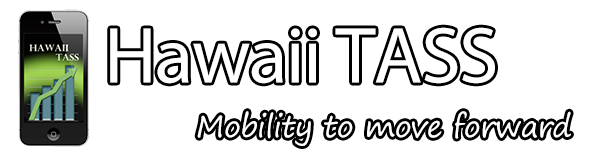
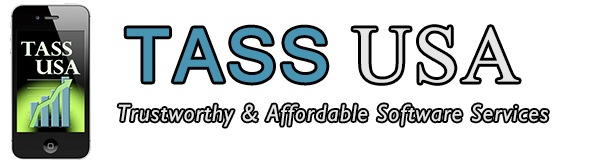
updated the user profiles.

diff --git a/_includes/header.html b/_includes/header.html
@@ -34,7 +34,7 @@
 		<div class="row">
 			<div id="logo" class="site-branding col-xs-12 col-sm-10 col-sm-offset-1 col-md-8 col-md-offset-2">
 				<div id="site-logo-big"><!-- class="hidden-xs" -->
-					<img class="img-responsive" src="{{ "/assets/images/header-2.0.png" | prepend: site.baseurl }}" alt="{{ site.title }}" />
+					<img class="img-responsive" src="{{ "/assets/images/header.png" | prepend: site.baseurl }}" alt="{{ site.title }} - {{ site.slogan }}" />
 				</div>
 				<!-- <div id="site-logo-small" class="visible-xs">
 					<img class="img-responsive" src="{{ "/assets/images/TASS-cellphone-small.png" | prepend: site.baseurl }}" alt="Home" />

diff --git a/_sass/_extra.scss b/_sass/_extra.scss
@@ -1386,7 +1386,7 @@ q > cite:before{
 }
 
 #site-logo-big {
-  padding-top: 100px;
+  padding-top: 175px;
 }
 
 #site-logo-small {

diff --git a/_members/salahuddin.md b/_members/salahuddin.md
@@ -3,7 +3,34 @@ layout: member
 sort: 3
 real_name: "Salahuddin Aziz"
 job_title: "Senior Data Mining Analyst"
-email: "Aziz@HawaiiTASS.com"
+email: "Aziz@TASSUSA.com"
 picture: "picture-1537-1412910726.jpg"
 ---
-This is the profile for Salahuddin Aziz.
+#### Background
+Mr. Salahuddin works as a Senior Java Developer at Dell Inc. He works part-time for the TASS USA company as the Senior Data Mining Analyst. Mr. Aziz physically works from Texas. He is also a Ph.D. candidate in the Computer Science Department at the Wayne State University, MI. His Ph.D. focus is in Data Mining.
+
+#### Education:
+- Ph.D. Candidate, Computer Science (Data Mining), Wayne State University, MI
+- MS in Computer Science, Wayne State University, MI
+- BS in Computer Science, Bangladesh University of Engineering Technology
+
+#### Software Development Focus:
+- Proficiency in **Java, JSP, JMS, EJB(Session Bean, MDB, JPA), JAXB, Frameworks (Struts, Spring, Hibernate)** in implementing **JavaEE** technology.
+- Specially proficient in creating and consuming Restful Webservices with json input/output using wink api's.
+- Used **Apache Tomcat, WebLogic, JBOSS, WebSphere** in my projects and successfully deployed and compiled many of the applications on them.
+- Experience in developing Front-End using **Struts, Spring, JSP, JSF, JavaScript, HTML, DHTML and CSS**.
+- Good knowledge and experience in **SDLC**, especially in **agile** methodology(**extreme** programming). Worked in **test driven development** using **SCRUM** methodology with the help of “**Agilo**” tool.
+- Experience in unit testing using **Junit** and **Qunit**(for javascript).
+- Experience in object oriented analysis and design using **Rational Rose** and **UML Lab**. Hands on experience in preparing **use case, class diagram** and **sequence diagrams** to model a system.
+- Experience in Design Patterns including **Model View Controller, Session Façade, Factory, Data Access Objects, Composite View, Singleton, Filter, Decorator** Pattern.
+- Extensive experience on **Eclipse** and **NetBeans IDE’s**.
+- In-depth knowledge of XML technologies **XML, XSL, XSLT, XSL-FO, XPath, DOM** & **SAX** Parsers.
+- Good exposure to both creating and publishing Web Services as well as consuming it. In depth knowledge in **SOAP, WSDL, UDDI**.
+- Knowledge in **cloud computing** through the use of **Apache Hadoop** for **distributed computing** to implement and compare the performance of data mining algorithms.
+- Used **Hibernate** for Object Relational Mapping.
+- Practical knowledge on using **Apache Mahout** for implementing large scale data mining algorithms
+- Experience in **Version Control System** such as **SVN** and **CVS**. 
+- Have experience in using **JAAS, JavaMail, Apache Mahout** api.
+- Have development experience in both **Windows** and **Unix** environment.
+- Good interpersonal skills, committed, result oriented, hard working with a quest and zeal to learn new technologies. Adaptive to the environment and new technology.
+- Good background on Data mining Algorithms in Classification, Clustering and Collaborative Filtering.

diff --git a/_members/siniva.md b/_members/siniva.md
@@ -3,7 +3,14 @@ layout: member
 sort: 3
 real_name: "Siniva Pota"
 job_title: "Accounting and Marketing Manager"
-email: "Siniva@HawaiiTASS.com"
+email: "Siniva@TASSUSA.com"
 picture: "picture-1534-1394157783.jpg"
 ---
-This is the profile for Siniva Pota.
+#### Background:
+Ms. Siniva Pota serves as the Accounting and Marketing manager at Hawaii TASS. She is a Hawaii-native and recent graduate of the University of Hawai’i at Hilo with her baccalaureate degree in Accounting and Business Administration. Upon graduation, she will sit for all 4 parts of the CPA exam. She has experience in Public Accounting as a tax specialist with emphasis on personal tax returns (1040, 1040A, 1040EZ) and state of Hawaii returns, business taxes, licensure, and start-up business applications. She also serves the Volunteer Income Tax Assistance (VITA) Program as an Income Tax Director at a local credit union in Hilo. She actively oversees that over 200 federal and state returns are in accordance with the IRS and state of Hawai’i regulations. She manages, coaches, and trains IRS VITA Volunteers to ensure due-diligence and accuracy of tax-filing and reporting as well as provide oversight and tax-consultation to over 10 credit union professionals. She is versatile in her abilities, takes an active interest in building professional relationships engrained in trust between a variety of clients, and takes pride in herself, the organization that she represents (Hawaii TASS), and more-so, the services that she delivers to our communities’ most prized assets—the people!
+ 
+#### Distinguishing Awards and Honors:
+- 2014 Asian & Pacific Islander American (APIASF) Distinguished Scholar—Awarded by APIASF International for - academic and character success.
+- 3-Year (2012-2014) South Pacific Region Leader—Awarded by Delta Sigma Pi, Professional Business Association - and collegiate fraternity for excellent leadership and strategic management and accounting implementation in - UH HILO and Hilo community.
+- 2012-2013 Jane M. Klaussman Woman in Business of the Year Scholar—Awarded by Zonta International for - outstanding business academia success.
+- Strategic Management Capstone "Target-Case" Champion—Awarded by Target Corporation Foundation for creating a “winning case” on increasing profitability in Target store clothing department by providing extensive research and business analysis in the following sectors: accounting, marketing methods, and strategic management. Plan implementation has potential for reduction in overhead costs, and increase in clothing profitability and sales throughout Hawai’i Target Stores. Selected by UH Hilo Management Professor and Target Hilo management over 45 top-performing senior business students.

diff --git a/_members/shawon.md b/_members/shawon.md
@@ -3,7 +3,21 @@ layout: member
 sort: 0
 real_name: "Dr. Shawon Rahman"
 job_title: "Founder &amp; President"
-email: "Rahman@HawaiiTASS.com"
+email: "Rahman@TASSUSA.com"
 picture: "picture-1-1412896482.jpg"
 ---
-This is the description for Shawon.
+#### Background:
+  
+The president of TASS USA, Dr. Shawon Rahman, has earned a Ph.D. degree in Software Engineering. He works as a computer science professor at the local university. He has more than 12 years of experience in Software Development in Hawaii and mainland USA. He is expert in developing Mobile Phone Apps (e.g. iPhone, Android, Windows), E-commerce websites, Search Engine Optimization (SEO), Information Security, Cyber Security, Network Security, etc. Our president manages software development team at TASS USA.
+ 
+#### Academic Background:
+- Ph.D., Software Engineering, North Dakota State University
+- MS, Computer Science, North Dakota State University
+- BS, Chemical Engineering, Bangladesh University of Engineering Technology
+
+#### Software Development Focus:
+- Mobile Apps (e.g. iPhone, Android, Windows, iPad)
+- Portal Development (non-profit or commercial)
+- Web-based Software Development
+- Information Security Consulting
+- Web Accessibility Consulting

diff --git a/_members/morshed.md b/_members/morshed.md
@@ -3,7 +3,19 @@ layout: member
 sort: 2
 real_name: "Morshed Osmani"
 job_title: "Director, Software Development"
-email: "Morshed@HawaiiTASS.com"
+email: "Morshed@TASSUSA.com"
 picture: "picture-1517-1396059512.png"
 ---
-This is the profile for Morshed Osmani.
+#### Background:
+Mr. Morshed Osmani works as a Senior Software Engineer at the largest software development company in the world. He works part-time in the TASS USA company as the director of the Software development team. Mr. Osmani physically works from Redmond, WA..
+
+#### Education:
+- MS in Computer Science, North Dakota State University
+- BS in Computer Science, Bangladesh University of Engineering Technology
+
+#### Software Development Focus:
+- Expert in Mobile Apps Development (e.g. Apple, Android, Windows, iPad, etc.)
+- Master in Social Networking Platforms such as Facebook Applications
+- Web applications development in  PHY/MySQL, ASP.NET, C#, JavaScript, AJAX
+- Experienced in Data Mining, Machine Learning, Rule Extraction and Artificial Intelligence
+- Expert in developing Data Access Layer in C# that makes the data access independent of database, works with - various heterogeneous databases

diff --git a/_members/saki.md b/_members/saki.md
@@ -3,7 +3,19 @@ layout: member
 sort: 3
 real_name: "Saiful (Saki) Islam"
 job_title: "Senior Programmer"
-email: "Saki@HawaiiTASS.com"
+email: "Saki@TASSUSA.com"
 picture: "picture-1535-1396314299.png"
 ---
-This is the profile for Saiful (Saki) Islam.
+#### Background: 
+Mr. AKM Saiful Islam works for TASS USA as a Senior Programmer. He is an expert in writing programs in Java, J2EE, SPSS, etc. domain. He is also experienced in Mobile Apps and cyber-portal Development. Mr. Islam physically located in California. 
+
+#### Education:
+- MS in Computer Science, Lamar University, TX
+- MS in Mathematics, Lamar University, Beaumont, TX       
+- B.Sc. in Mathematics, Khulna University, Bangladesh
+
+#### Software Development Focus:
+- Expert in developing software using Java and J2EE technology
+- Expert in developing Mobile Applications, specially Android Apps
+- Expert in web-based applications development using HTML, MySQL, JavaScript, CSS, etc.
+- Proficient in various programing languages including Java, C, C++, SPSS, MatLab, MINITAB, MySQL,etc.

diff --git a/_members/andrew.md b/_members/andrew.md
@@ -3,7 +3,17 @@ layout: member
 sort: 1
 real_name: "Andrew Wessels"
 job_title: "Software Engineer, Lead Web Developer"
-email: "Andrew@HawaiiTASS.com"
+email: "Andrew@TASSUSA.com"
 picture: "picture-1496-1384399691.jpg"
 ---
-This is the description for Andrew.
+#### Background:
+Andrew works for TASS USA primarily as a Web Developer and Designer. He also works on Android projects.
+
+#### Education:
+BS in Computer Science, University of Hawaii at Hilo
+
+#### Software Development Focus:
+- Expert in web-based applications development using PHP, MySQL, JavaScript, Ajax/Ajaj, jQuery, HTML5 & CSS3, - SASS+Compass & LESS, etc.
+- Excellent experience with Drupal PHP framework and has developed numerous web applications, modules, and - themes using Drupal CMS including the EPSCoR Hawaii Statewide Website - http://www.epscor.hawaii.edu
+- Well versed in many additional programing languages including Java, C++, C#, Python, VB.NET, etc.
+- Has experience developing Android applications.

diff --git a/_members/rono.md b/_members/rono.md
@@ -3,7 +3,18 @@ layout: member
 sort: 3
 real_name: "Syed (Rono) Ahmed"
 job_title: "Senior Software Engineer"
-email: "Rono@HawaiiTASS.com"
+email: "Rono@TASSUSA.com"
 picture: "picture-1520-1408490917.png"
 ---
-This is the profile for Syed (Rono) Ahmed.
+#### Background: 
+Mr. Syed (Rono) Ahmed works for TASS USA as a Senior Software Engineer. He is an expert in developing Mobile Applications, and Database development. Mr. Ahmed is physically located in Fargo, North Dakota.
+
+#### Education:
+- MS in Computer Science, Fargo, North Dakota State University.
+- BS in Computer Science and Engineering,  Dhaka University, Bangladesh
+
+#### Software Development Focus:
+- Expert in Database and Graphical User Interfaces development
+- Expert in web-based applications development using PHP, MySQL, JavaScript, XML, etc.
+- Proficient in various programing languages including C++, C#,  Java, PHP,  and Python
+- Experienced in the MBS Dynamics ERP Foundation Development

diff --git a/_members/shufean.md b/_members/shufean.md
@@ -3,7 +3,18 @@ layout: member
 sort: 3
 real_name: "Abu Shufean"
 job_title: "Software Engineer"
-email: "Abu@HawaiiTASS.com"
+email: "Abu@TASSUSA.com"
 picture: "picture-1519-1396059150.png"
 ---
-This is the profile for Abu Shufean.
+#### Background:
+Mr. Abu Shufean works for TASS USA as a Software Engineering. He is an expert in developing Android Mobile Applications and game development. Mr. Shufean physically located in Beaumont, Texas.
+
+#### Education:
+- MS in Computer Science, Student, Lamar University, TX
+- BS in Computer Science and Engineering,   Jahangirnagar University, Dhaka, Bangladesh
+
+#### Software Development Focus:
+- Expert in developing Mobile Applications, specially Android Apps
+- Expert in Game Development
+- Expert in web-based applications development using PHP, MySQL, JavaScript, XML, etc.
+- Proficient in various programing languages including Java, C, C++, C#, PHP, Python

diff --git a/_members/rizve.md b/_members/rizve.md
@@ -3,7 +3,24 @@ layout: member
 sort: 3
 real_name: "Rizve Hasan"
 job_title: "Marketing Consultant"
-email: "Rizve@HawaiiTASS.com"
+email: "Rizve@TASSUSA.com"
 picture: "picture-1536-1401830628.jpg"
 ---
-This is the profile for Rizve Hasan.
+#### Previous Positions:
+- Head of Planning & Strategy, PRAN-RFL Group,
+- Director of Creative & Strategic Planning, Madonna Advertising
+- Director of Planning, Creato,
+- Strategic Planner, Adcomm Ltd ( Lowe worldwide)
+
+#### Expertise:
+- Integrated Marketing Communication Design
+- Advertising & Event Management
+- Market Research
+- Social Media Communication & Management
+
+#### Education & Training:
+- Bachelor of Architecture, 2004
+- Internationally Trained on Branding, Communication and Event management
+
+#### Achievement:
+Rizve Hasan has been covered by the leading newspapers and radio-channels of Bangladesh for his creative works

diff --git a/_members/nayeem.md b/_members/nayeem.md
@@ -3,7 +3,16 @@ layout: member
 sort: 2
 real_name: "Nayeem Ahmad"
 job_title: "Graphical User Interfaces Designer and Apps Developer"
-email: "Nayeem@HawaiiTASS.com"
+email: "Nayeem@TASSUSA.com"
 picture: "picture-1529-1408845035.png"
 ---
-This is the profile for Nayeem Ahmad.
+#### Background:
+Mr. Nayeem Ahmad works for TASS USA as a Graphical User Interface Designer and Mobile Apps Developer.
+
+#### Education:
+- BS in Computer Science, Bangladesh University of Engineering Technology
+
+#### Software Development Focus:
+- Master in Graphical User Interface Designer using Adobe and other technologies
+- Expert in Mobile Apps Development (e.g. Apple, Android, Windows, iPad, etc.)
+- Expert in Web applications development  including ecommerce site, portal development, database development, etc.
